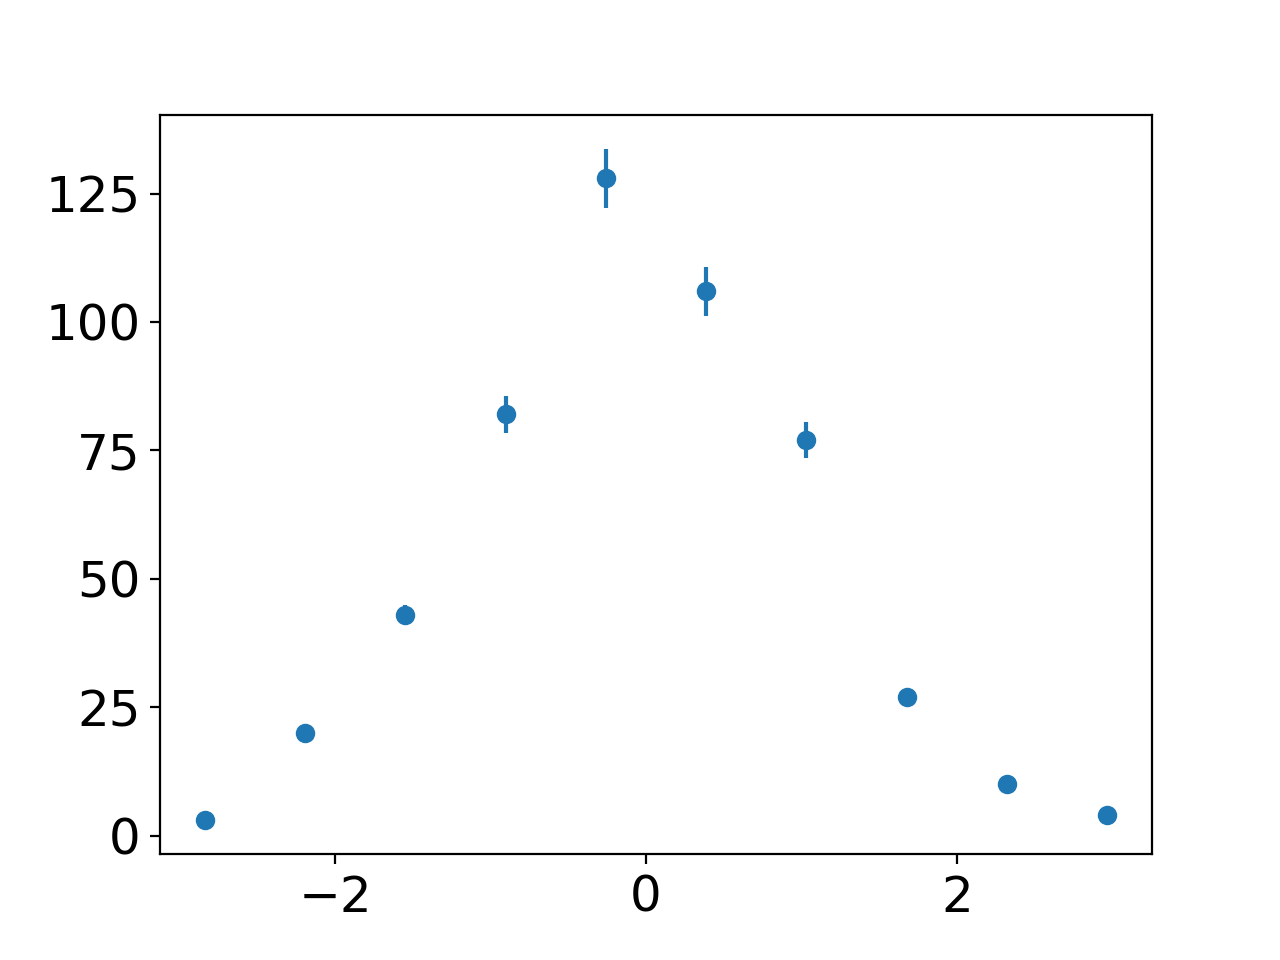
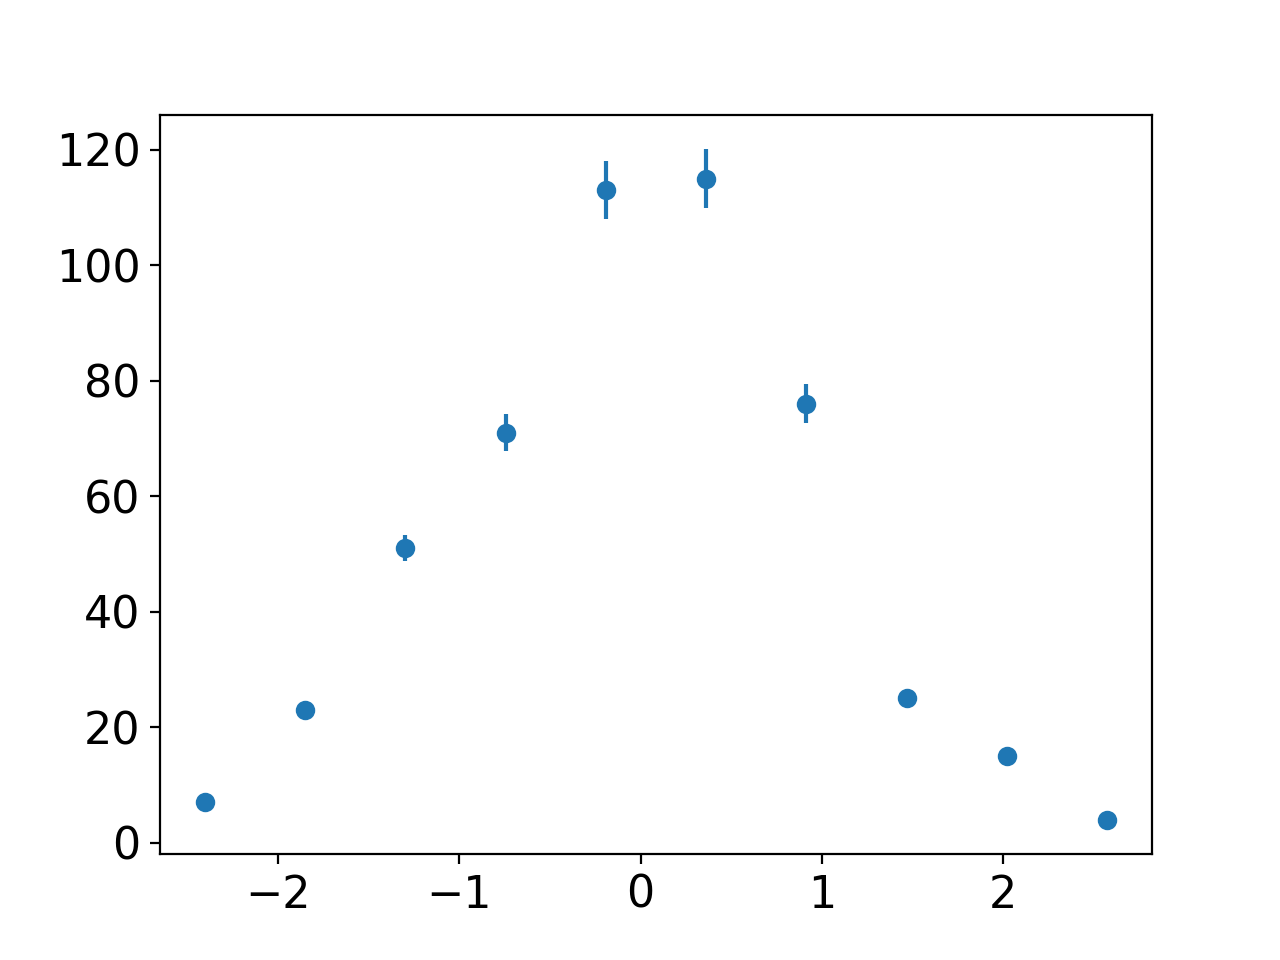
Added to fitting example and added image

diff --git a/util/gaus_example.py b/util/gaus_example.py
@@ -1,0 +1,45 @@
+import pathlib
+
+import numpy as np
+import matplotlib.pyplot as plt
+from scipy.optimize import curve_fit
+
+IMAGE_DIR = pathlib.Path(__file__).parent.parent.absolute() / "src/images/"
+
+def gaussian_func(x, mean, std, A):
+    return (
+        A * np.exp(-((x - mean) ** 2) / (2 * std ** 2))
+    )
+
+def get_centres(edges):
+    # Take the edges of a histogram and return the centres of each bin as a list
+    # Also need to remove the last edge
+    bin_width = edges[1] - edges[0]
+    return edges[:-1] + bin_width/2
+
+def plot_random_gaus(N):
+    data = np.random.normal(0, 1, N) # Generate randomly distributed data
+
+    # Bin the data and approximate the error due to binning using Poisson statistics
+    counts, edges = np.histogram(data)
+    counts_uncertainty = counts/np.sqrt(N)
+
+    initial_values = [0, 1, 300]
+
+    x_data = get_centres(edges)
+    y_data = counts
+    yerr_data = counts_uncertainty
+
+    popt, pcov = curve_fit(gaussian_func, x_data, y_data, p0=initial_values, sigma=yerr_data)
+
+    # Plot the results
+    x = np.linspace(-3, 3, 100)
+    y = gaussian_func(x, popt[0], popt[1], popt[2])
+
+    plt.errorbar(x_data, y_data, yerr=yerr_data, linestyle="None", label="Data")
+    plt.plot(x, y, label="Gaus Model")
+    plt.legend()
+    plt.title("Gaussian Example")
+    plt.ylabel("Counts")
+    plt.savefig(IMAGE_DIR / "fitting_gaus_example.png", dpi=150)
+    plt.clf()

diff --git a/util/example_plots.py b/util/example_plots.py
@@ -1,16 +1,17 @@
-import os
 import pathlib
 
 import numpy as np
 import matplotlib.pyplot as plt
 
-plt.rcParams.update({'font.size': 18}) # Adjust 18 to the size you need
+import gaus_example
 
-IMAGE_DIR=pathlib.Path(__file__).parent.parent.absolute() / "src/images/"
+plt.rcParams.update({'font.size': 16}) # Adjust 16 to the size you need
+
+IMAGE_DIR = pathlib.Path(__file__).parent.parent.absolute() / "src/images/"
 print(f"Saving images to {IMAGE_DIR}")
 
 def plt_plot_example():
-    x = np.array([1, 2, 3, 4]); # Create a 1D numpy array
+    x = np.array([1, 2, 3, 4]) # Create a 1D numpy array
     y = 2 * x # Use element-wise operations to generate f(x)
     plt.plot(x, y) # Create a plot element on the current figure
     plt.savefig(IMAGE_DIR / "plt_plot_example.png", dpi=200)
@@ -130,3 +131,4 @@ if __name__ == "__main__":
     legend_example()
     hist_example()
     hist_errorbar_example()
+    gaus_example.plot_random_gaus(1000)

diff --git a/src/fitting/curve_fit.md b/src/fitting/curve_fit.md
@@ -24,29 +24,61 @@ If we assume we had \\( n \\) free parameters in our fit, `popt` would be a list
 `pcov` is an matrix of \\( n \\times n \\) containing the estimated covariance between our optimal values in `popt`.
 
 ### Gaussian Example
+Now I can show a simple example of generating some normally distribution random data using `np.random.normal()` then fitting a Gaussian function to it.
+First, let's define some preliminary functions to make the code cleaner and more readable.
 
 ``` python
 import numpy as np
+import matplotlib.pyplot as plt
 from scipy.optimize import curve_fit
 
-N = 1000
-data = np.random.normal(0, 1, N)
-
-counts, edges = np.histogram(data)
-counts_uncertainty = counts/np.sqrt(N)
-	
 def gaussian_func(x, mean, std, A):
-	return (
+    return (
         A * np.exp(-((x - mean) ** 2) / (2 * std ** 2))
     )
-	
-initial_values = [0, 1, 1]
 
-x_data = edges[:-1]
-y_data = counts
-yerr_data = counts_uncertainty
-
-popt, pcov = curve_fit(gaussian_func, x_data, y_data, p0=initial_values, sigma=yerr_data)
+def get_centres(edges):
+    # Take the edges of a histogram and return the centres of each bin as a list
+    # Also need to remove the last edge
+    bin_width = edges[1] - edges[0]
+    return edges[:-1] + bin_width/2
 ```
+
+
+``` python
+def plot_random_gaus(N):
+    N = 1000
+    data = np.random.normal(0, 1, N) # Generate randomly distributed data
+
+    # Bin the data and approximate the error due to binning using Poisson statistics
+    counts, edges = np.histogram(data)
+    counts_uncertainty = counts/np.sqrt(N)
+
+    initial_values = [0, 1, 300]
+
+    x_data = get_centres(edges)
+    y_data = counts
+    yerr_data = counts_uncertainty
+
+    popt, pcov = curve_fit(
+		gaussian_func, x_data, y_data, p0=initial_values, sigma=yerr_data
+	)
+
+    # Plot the results
+    x = np.linspace(-3, 3, 100)
+    y = gaussian_func(x, popt[0], popt[1], popt[2])
+
+    plt.errorbar(x_data, y_data, yerr=yerr_data, linestyle="None", label="Data")
+    plt.plot(x, y, label="Gaus Model")
+	
+	plt.legend()
+	plt.title("Gaussian Example")
+	plt.ylabel("Counts")
+    plt.show()
+    
+plot_random_gaus(1000)
+```
+
+![Gaussian Example](../images/fitting_gaus_example.png)
 
 The documentation page for `curve_fit()` can be found [online](https://docs.scipy.org/doc/scipy/reference/generated/scipy.optimize.curve_fit.html).
